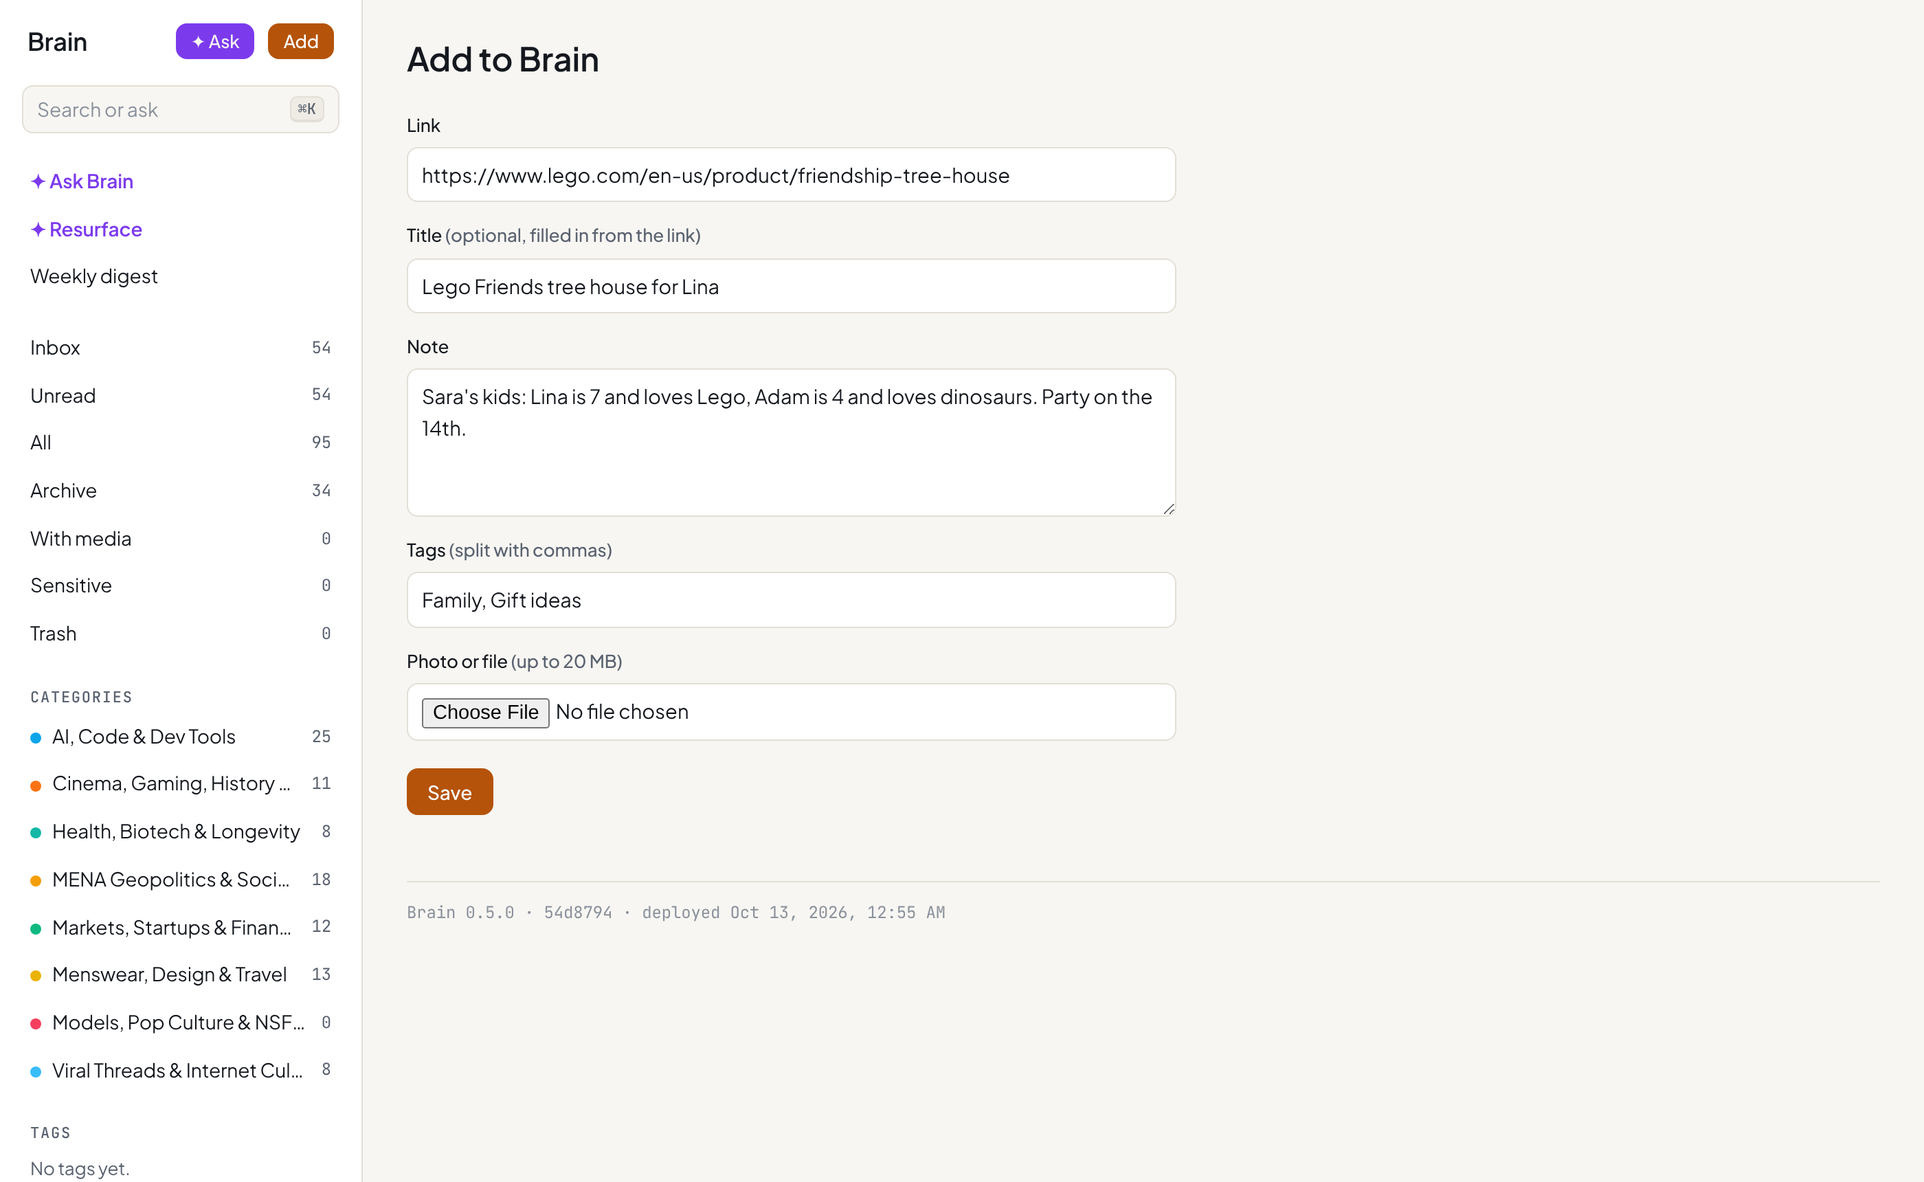
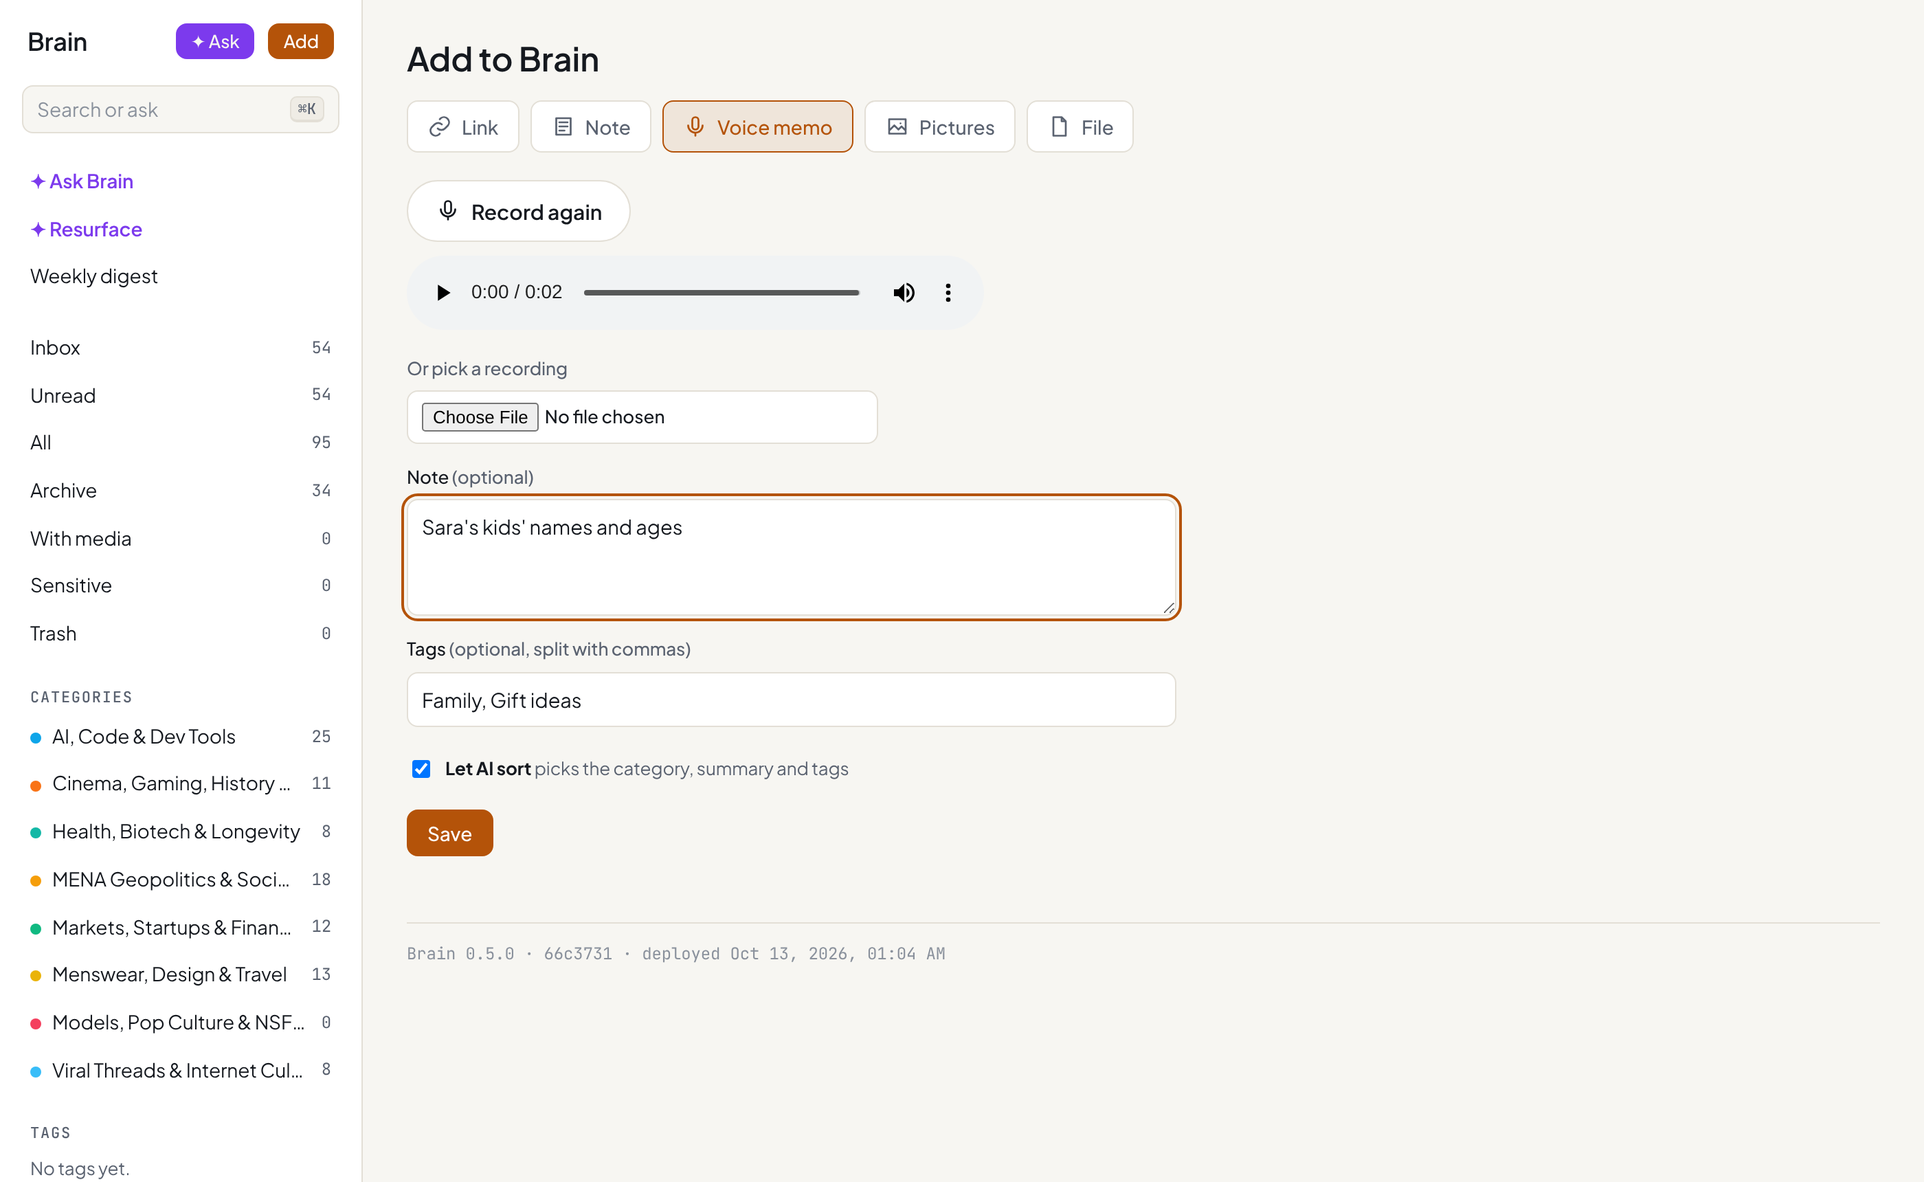
Web Add page: pick a link, note, voice memo, pictures or file (0.5.1) (#4)

diff --git a/web/src/components/AddForm.tsx b/web/src/components/AddForm.tsx
@@ -1,24 +1,251 @@
 "use client";
 
-import { useActionState } from "react";
-import { addItem } from "@/lib/actions";
+import { useRouter } from "next/navigation";
+import { useEffect, useMemo, useRef, useState, useTransition } from "react";
+import { addOne } from "@/lib/actions";
+
+// The Add page, like the iPhone's Add sheet: pick what you're adding (a link, a note, a voice
+// memo, pictures or a file), add words and tags if you like, and the AI sorts it after you save.
+
+type Kind = "link" | "note" | "voice" | "picture" | "file";
+
+const KINDS: { id: Kind; label: string; icon: string }[] = [
+  { id: "link", label: "Link", icon: "M10 14a5 5 0 0 0 7 0l3-3a5 5 0 0 0-7-7l-1 1M14 10a5 5 0 0 0-7 0l-3 3a5 5 0 0 0 7 7l1-1" },
+  { id: "note", label: "Note", icon: "M5 4h14v16H5zM8 8h8M8 12h8M8 16h5" },
+  { id: "voice", label: "Voice memo", icon: "M12 3a3 3 0 0 1 3 3v6a3 3 0 0 1-6 0V6a3 3 0 0 1 3-3zM5 11a7 7 0 0 0 14 0M12 18v3" },
+  { id: "picture", label: "Pictures", icon: "M4 5h16v14H4zM4 16l5-5 4 4 3-3 4 4M15 9h.01" },
+  { id: "file", label: "File", icon: "M14 3H6v18h12V7zM14 3v4h4" },
+];
+
+const MAX_PICTURES = 10;
+const MAX_BYTES = 20 * 1024 * 1024;
+
+function Icon({ d }: { d: string }) {
+  return (
+    <svg viewBox="0 0 24 24" width="18" height="18" fill="none" stroke="currentColor" strokeWidth="1.8" strokeLinecap="round" strokeLinejoin="round" aria-hidden="true">
+      <path d={d} />
+    </svg>
+  );
+}
+
+const clock = (s: number) => `${Math.floor(s / 60)}:${String(s % 60).padStart(2, "0")}`;
+
+/** Records from the microphone in the browser and hands back the recording as a file. */
+function Recorder({ audio, onAudio }: { audio: File | null; onAudio: (f: File | null) => void }) {
+  const [recording, setRecording] = useState(false);
+  const [seconds, setSeconds] = useState(0);
+  const [error, setError] = useState<string | null>(null);
+  const rec = useRef<MediaRecorder | null>(null);
+  const url = useMemo(() => (audio ? URL.createObjectURL(audio) : null), [audio]);
+
+  useEffect(() => () => { if (url) URL.revokeObjectURL(url); }, [url]);
+  useEffect(() => {
+    if (!recording) return;
+    const t = setInterval(() => setSeconds((s) => s + 1), 1000);
+    return () => clearInterval(t);
+  }, [recording]);
+  useEffect(() => () => rec.current?.stream.getTracks().forEach((t) => t.stop()), []);
+
+  async function start() {
+    setError(null);
+    try {
+      const stream = await navigator.mediaDevices.getUserMedia({ audio: true });
+      const type = ["audio/mp4", "audio/webm;codecs=opus", "audio/webm"].find((t) => MediaRecorder.isTypeSupported(t)) ?? "";
+      const r = new MediaRecorder(stream, type ? { mimeType: type } : undefined);
+      const parts: Blob[] = [];
+      r.ondataavailable = (e) => e.data.size && parts.push(e.data);
+      r.onstop = () => {
+        stream.getTracks().forEach((t) => t.stop());
+        const mime = (r.mimeType || "audio/webm").split(";")[0];
+        const ext = mime.includes("mp4") ? "m4a" : "webm";
+        const stamp = new Date().toISOString().slice(0, 16).replace("T", " ").replace(":", ".");
+        onAudio(new File(parts, `Voice memo ${stamp}.${ext}`, { type: mime }));
+      };
+      r.start();
+      rec.current = r;
+      setSeconds(0);
+      setRecording(true);
+    } catch {
+      setError("Brain can't use the microphone. Allow it in the browser, or pick a recording below.");
+    }
+  }
+
+  function stop() {
+    rec.current?.stop();
+    rec.current = null;
+    setRecording(false);
+  }
+
+  return (
+    <div className="add-voice">
+      {recording ? (
+        <button type="button" className="add-rec on" onClick={stop}>
+          <span className="dot" /> Stop · {clock(seconds)}
+        </button>
+      ) : (
+        <button type="button" className="add-rec" onClick={start}>
+          <Icon d={KINDS[2].icon} /> {audio ? "Record again" : "Record"}
+        </button>
+      )}
+      {url && !recording && <audio controls src={url} />}
+      {error && <p className="small muted">{error}</p>}
+      <label className="add-pick">
+        Or pick a recording
+        <input type="file" accept="audio/*,video/*,.m4a,.mp3,.wav,.aac,.ogg,.opus,.webm" onChange={(e) => onAudio(e.target.files?.[0] ?? null)} />
+      </label>
+    </div>
+  );
+}
 
 export function AddForm() {
-  const [error, action, pending] = useActionState(addItem, null);
+  const router = useRouter();
+  const [kind, setKind] = useState<Kind>("link");
+  const [url, setUrl] = useState("");
+  const [title, setTitle] = useState("");
+  const [note, setNote] = useState("");
+  const [tags, setTags] = useState("");
+  const [sort, setSort] = useState(true);
+  const [audio, setAudio] = useState<File | null>(null);
+  const [pictures, setPictures] = useState<File[]>([]);
+  const [file, setFile] = useState<File | null>(null);
+  const [error, setError] = useState<string | null>(null);
+  const [progress, setProgress] = useState<string | null>(null);
+  const [pending, start] = useTransition();
+  const previews = useMemo(() => pictures.map((p) => URL.createObjectURL(p)), [pictures]);
+  useEffect(() => () => previews.forEach((u) => URL.revokeObjectURL(u)), [previews]);
+
+  function addPictures(list: FileList | null) {
+    const picked = Array.from(list ?? []).filter((f) => f.type.startsWith("image/") || f.type.startsWith("video/"));
+    setPictures((p) => [...p, ...picked].slice(0, MAX_PICTURES));
+  }
+
+  // What gets sent, one save per entry.
+  function files(): (File | null)[] {
+    if (kind === "voice") return [audio];
+    if (kind === "picture") return pictures;
+    if (kind === "file") return [file];
+    return [null];
+  }
+
+  function save(e: React.FormEvent) {
+    e.preventDefault();
+    setError(null);
+    const list = files();
+    if (kind === "link" && !url.trim()) return setError("Paste a link.");
+    if (kind === "note" && !note.trim()) return setError("Write a note.");
+    if (kind === "voice" && !audio) return setError("Record a voice memo or pick a recording.");
+    if (kind === "picture" && !pictures.length) return setError("Pick at least one picture.");
+    if (kind === "file" && !file) return setError("Pick a file.");
+    if (list.some((f) => f && f.size > MAX_BYTES)) return setError("Each file needs to be 20 MB or less.");
+
+    start(async () => {
+      const ids: string[] = [];
+      for (const [n, f] of list.entries()) {
+        if (list.length > 1) setProgress(`Saving ${n + 1} of ${list.length}…`);
+        const form = new FormData();
+        if (kind === "link") form.set("url", url.trim());
+        if (kind === "link") form.set("title", title);
+        // A voice memo with no note is named after its recording, not "Untitled".
+        else if (kind === "voice" && f && !note.trim()) form.set("title", f.name.replace(/\.[^.]+$/, ""));
+        form.set("note", note);
+        form.set("tags", tags);
+        form.set("sort", sort ? "on" : "off");
+        if (f) form.set("file", f);
+        try {
+          const r = await addOne(form);
+          if (r.error) {
+            setError(list.length > 1 ? `Picture ${n + 1}: ${r.error}` : r.error);
+            break;
+          }
+          if (r.id) ids.push(r.id);
+        } catch {
+          setError("Couldn't reach Brain. Try again.");
+          break;
+        }
+      }
+      setProgress(null);
+      if (ids.length === list.length) router.push(ids.length === 1 ? `/item/${ids[0]}` : "/?view=all");
+    });
+  }
+
   return (
-    <form action={action} className="add-form">
-      <label htmlFor="url">Link</label>
-      <input id="url" name="url" type="url" placeholder="https://" autoFocus />
-      <label htmlFor="title">Title <span className="muted">(optional, filled in from the link)</span></label>
-      <input id="title" name="title" dir="auto" />
-      <label htmlFor="note">Note</label>
-      <textarea id="note" name="note" rows={4} dir="auto" placeholder="A thought, a quote, why this matters…" />
-      <label htmlFor="tags">Tags <span className="muted">(split with commas)</span></label>
-      <input id="tags" name="tags" dir="auto" />
-      <label htmlFor="file">Photo or file <span className="muted">(up to 20 MB)</span></label>
-      <input id="file" name="file" type="file" />
+    <form onSubmit={save} className="add-form">
+      <div className="add-kinds" role="tablist" aria-label="What are you adding?">
+        {KINDS.map((k) => (
+          <button
+            key={k.id}
+            type="button"
+            role="tab"
+            aria-selected={kind === k.id}
+            className={`add-kind${kind === k.id ? " on" : ""}`}
+            onClick={() => { setKind(k.id); setError(null); }}
+          >
+            <Icon d={k.icon} /> {k.label}
+          </button>
+        ))}
+      </div>
+
+      {kind === "link" && (
+        <>
+          <label htmlFor="url">Link</label>
+          <input id="url" type="url" value={url} onChange={(e) => setUrl(e.target.value)} placeholder="https://" autoFocus />
+          <label htmlFor="title">Title <span className="muted">(optional, filled in from the link)</span></label>
+          <input id="title" value={title} onChange={(e) => setTitle(e.target.value)} dir="auto" />
+        </>
+      )}
+
+      {kind === "voice" && <Recorder audio={audio} onAudio={setAudio} />}
+
+      {kind === "picture" && (
+        <div className="add-pictures">
+          <div className="add-thumbs">
+            {previews.map((u, i) => (
+              <div key={u} className="add-thumb">
+                {/* eslint-disable-next-line @next/next/no-img-element */}
+                {pictures[i].type.startsWith("video/") ? <video src={u} muted /> : <img src={u} alt="" />}
+                <button type="button" className="chip-x" aria-label="Remove" onClick={() => setPictures((p) => p.filter((_, n) => n !== i))}>×</button>
+              </div>
+            ))}
+            {pictures.length < MAX_PICTURES && (
+              <label className="add-thumb add-more">
+                <Icon d={KINDS[3].icon} />
+                <span>{pictures.length ? "Add more" : "Choose pictures"}</span>
+                <input type="file" accept="image/*,video/*" multiple onChange={(e) => { addPictures(e.target.files); e.target.value = ""; }} />
+              </label>
+            )}
+          </div>
+          <p className="small muted">Up to {MAX_PICTURES}, each its own save. Brain reads the text in each one.</p>
+        </div>
+      )}
+
+      {kind === "file" && (
+        <>
+          <label htmlFor="file">File <span className="muted">(up to 20 MB)</span></label>
+          <input id="file" type="file" onChange={(e) => setFile(e.target.files?.[0] ?? null)} />
+        </>
+      )}
+
+      <label htmlFor="note">Note {kind !== "note" && <span className="muted">(optional)</span>}</label>
+      <textarea
+        id="note"
+        value={note}
+        onChange={(e) => setNote(e.target.value)}
+        rows={kind === "note" ? 8 : 3}
+        dir="auto"
+        autoFocus={kind === "note"}
+        placeholder={kind === "note" ? "A thought, a name, a birthday, a quote…" : "Why this matters, who it's for…"}
+      />
+
+      <label htmlFor="tags">Tags <span className="muted">(optional, split with commas)</span></label>
+      <input id="tags" value={tags} onChange={(e) => setTags(e.target.value)} dir="auto" placeholder="Family, Gift ideas" />
+
+      <label className="add-sort">
+        <input type="checkbox" checked={sort} onChange={(e) => setSort(e.target.checked)} />
+        <span><b>Let AI sort</b> <span className="muted">picks the category, summary and tags</span></span>
+      </label>
+
       {error && <p className="error" role="alert">{error}</p>}
-      <button className="btn" disabled={pending}>{pending ? "Saving…" : "Save"}</button>
+      <button className="btn" disabled={pending}>{pending ? (progress ?? "Saving…") : kind === "picture" && pictures.length > 1 ? `Save ${pictures.length}` : "Save"}</button>
     </form>
   );
 }

diff --git a/web/src/app/globals.css b/web/src/app/globals.css
@@ -345,6 +345,26 @@ textarea { resize: vertical; }
 .add-form { display: flex; flex-direction: column; gap: 6px; }
 .add-form label { font-size: 13px; font-weight: 500; margin-top: 8px; }
 .add-form .btn { margin-top: 14px; align-self: flex-start; }
+.add-kinds { display: flex; flex-wrap: wrap; gap: 8px; margin-bottom: 6px; }
+.add-kind { display: inline-flex; align-items: center; gap: 7px; font: 500 14px var(--sans); padding: 9px 14px; border-radius: var(--r-btn); border: 1px solid var(--line); background: var(--panel); color: var(--soft); cursor: pointer; }
+.add-kind:hover { color: var(--ink); }
+.add-kind.on { background: var(--accent-bg); color: var(--accent); border-color: var(--accent); }
+.add-voice { display: flex; flex-direction: column; gap: 10px; align-items: flex-start; margin-top: 8px; }
+.add-rec { display: inline-flex; align-items: center; gap: 8px; font: 600 15px var(--sans); padding: 12px 20px; border-radius: 99px; border: 1px solid var(--line); background: var(--panel); color: var(--ink); cursor: pointer; }
+.add-rec.on { background: var(--bad-bg); color: var(--bad); border-color: var(--bad); font-variant-numeric: tabular-nums; }
+.add-rec .dot { width: 10px; height: 10px; border-radius: 50%; background: currentColor; animation: add-blink 1s infinite; }
+@keyframes add-blink { 50% { opacity: .3; } }
+.add-voice audio { width: 100%; max-width: 420px; }
+.add-pick { font-size: 13px; color: var(--soft); display: flex; flex-direction: column; gap: 6px; }
+.add-pictures { margin-top: 8px; }
+.add-thumbs { display: flex; flex-wrap: wrap; gap: 10px; }
+.add-thumb { position: relative; width: 104px; height: 104px; border-radius: 12px; overflow: hidden; border: 1px solid var(--line); background: var(--panel); }
+.add-thumb img, .add-thumb video { width: 100%; height: 100%; object-fit: cover; display: block; }
+.add-thumb .chip-x { position: absolute; top: 4px; right: 4px; width: 22px; height: 22px; border-radius: 50%; background: rgba(0,0,0,.6); color: #fff; }
+.add-more { display: flex; flex-direction: column; align-items: center; justify-content: center; gap: 6px; font-size: 12px; color: var(--soft); cursor: pointer; border-style: dashed; text-align: center; }
+.add-more input { display: none; }
+.add-sort { display: flex !important; align-items: center; gap: 8px; font-weight: 400 !important; margin-top: 14px !important; cursor: pointer; }
+.add-sort input { width: auto; }
 .login { max-width: 340px; margin: 18vh auto 0; padding: 0 16px; display: flex; flex-direction: column; gap: 8px; }
 .sources { list-style: none; margin: 0; padding: 0; display: flex; flex-direction: column; gap: 10px; }
 .source-row { background: var(--panel); border: 1px solid var(--line); border-radius: var(--r-panel); box-shadow: var(--card-shadow); padding: 14px 16px; display: flex; flex-direction: column; gap: 4px; }

diff --git a/web/src/lib/actions.ts b/web/src/lib/actions.ts
@@ -300,25 +300,27 @@ export async function reviewCard(id: string, how: "keep" | "later" | "done") {
 }
 
 // The Add page: a link, a note, tags and an optional picture. Opens the item when saved.
-export async function addItem(_: string | null, form: FormData): Promise<string | null> {
+// One save from the Add page: a link, a note, a voice memo, a picture or a file. The page calls
+// this once per picture, so ten photos stay under the upload limit and each becomes its own save.
+export async function addOne(form: FormData): Promise<{ id?: string; error?: string }> {
   await requireUser();
   const file = form.get("file");
-  let id: string;
   try {
-    ({ id } = await captureItem({
+    const { id } = await captureItem({
       url: String(form.get("url") ?? "").slice(0, 2000),
       text: String(form.get("note") ?? "").slice(0, 20000),
       title: String(form.get("title") ?? "").slice(0, 500),
       tags: tagList(form.get("tags")),
       file: file instanceof File ? file : null,
+      sort: form.get("sort") !== "off",
       source: "manual",
-    }));
+    });
+    revalidatePath("/", "layout");
+    return { id };
   } catch (err) {
-    if (err instanceof InputError) return err.message;
+    if (err instanceof InputError) return { error: err.message };
     throw err;
   }
-  revalidatePath("/", "layout");
-  redirect(`/item/${id}`);
 }
 
 // ───────────── ⌘K box and Ask ─────────────

diff --git a/README.md b/README.md
@@ -36,7 +36,7 @@ Nothing is thrown away. Your data stays in your own cloud account, and the web a
 apps stay in sync. You can search, filter, read, archive, retag or add a note to anything.
 Arabic text shows right to left.
 
-**Version 0.5.0 "Connect".** See [CHANGELOG.md](CHANGELOG.md) for what changed.
+**Version 0.5.1.** See [CHANGELOG.md](CHANGELOG.md) for what changed.
 
 ## What it looks like
 
@@ -59,10 +59,11 @@ it.*
 names in a voice memo, the party in an email, then a screenshot, a pin and a bookmark, and
 suggests gifts. "Looked for" shows what it searched, and each number opens the save it used.*
 
-![The Add to Brain page with a link, title, note, tags and a file](docs/images/add.png)
-*Add to Brain on the web: a link, a title (filled in from the link when left empty), a note,
-your own tags split with commas, and a photo or file up to 20 MB. The AI sorts it after you
-save.*
+![The Add to Brain page with Link, Note, Voice memo, Pictures and File, a recorded voice memo, a note and tags](docs/images/add.png)
+*Add to Brain on the web. Pick what you're adding: a **Link**, a **Note**, a **Voice memo**
+(record it in the browser or pick a recording), up to 10 **Pictures** (each its own save) or
+any **File** up to 20 MB. Add a note and your own tags if you like. **Let AI sort** lets the
+chosen AI pick the category, summary and tags after you save.*
 
 ![A Resurface card with Done, Tomorrow and Keep](docs/images/resurface.png)
 *Resurface: a few saves a day. Keys 1, 2 and 3 answer.*
@@ -151,8 +152,9 @@ What you can do in it:
 - **Item page:** read the full text and pictures, see where and when you saved it, write a
   note, set the category, add or remove tags. Tags you add look different from the ones
   your AI suggests; press ✓ to keep a suggestion.
-- **Add by hand** at `/add`: a link (the title and picture are filled in from the page), a
-  note, tags, and a photo or file up to 10 MB.
+- **Add by hand** at `/add`: pick a link (the title and picture are filled in from the page),
+  a note, a voice memo (record it in the browser or pick a recording), up to 10 pictures or a
+  file up to 20 MB, then add a note and tags if you like.
 
 ## Sources
 
@@ -169,7 +171,7 @@ Each source shows its status on the Sources page (`/sources`).
 | Pinterest | Click Connect Pinterest. Brings in the pins on your boards, each tagged with its board name, then checks again every six hours. Needs the Pinterest keys. |
 | Screenshots | The iPhone app sends your Screenshots album. Your AI looks at each picture to sort it. |
 | Added by hand | The `/add` page, or "Save to Brain" in any iPhone app. |
-| Voice memos | Share a memo from Voice Memos to Save to Brain, pick a sound file in the iPhone Add sheet, speak in the Add sheet, or add a sound file on `/add`. |
+| Voice memos | Share a memo from Voice Memos to Save to Brain, pick a sound file in the iPhone Add sheet, speak in the Add sheet, or record one or pick a sound file on `/add`. |
 
 Feedly and other tools post to `/api/ingest/<source>?key=...`. The key is made for you
 and shown on the Sources page. Keep it private.

diff --git a/CHANGELOG.md b/CHANGELOG.md
@@ -3,6 +3,14 @@
 Versions cover the web app (`web/`) and the iPhone app (`ios/`) together. Each one is a git
 tag, such as `v0.2.0`.
 
+## 0.5.1 (2026-10-13)
+
+- **Add to Brain on the web** works like the iPhone's Add sheet. Pick a **Link**, a **Note**, a
+  **Voice memo** (record it in the browser, or pick a recording), up to 10 **Pictures** (each
+  its own save) or a **File**. Add a note and tags if you like, and turn **Let AI sort** off
+  to sort it yourself. A voice memo with no note takes its recording's name, not "Untitled".
+- README: screenshots of the Ask Brain page and the new Add page.
+
 ## 0.5.0 "Connect" (2026-10-13)
 
 Brain reads your email and your Pinterest boards, and Ask Brain joins up what's spread
